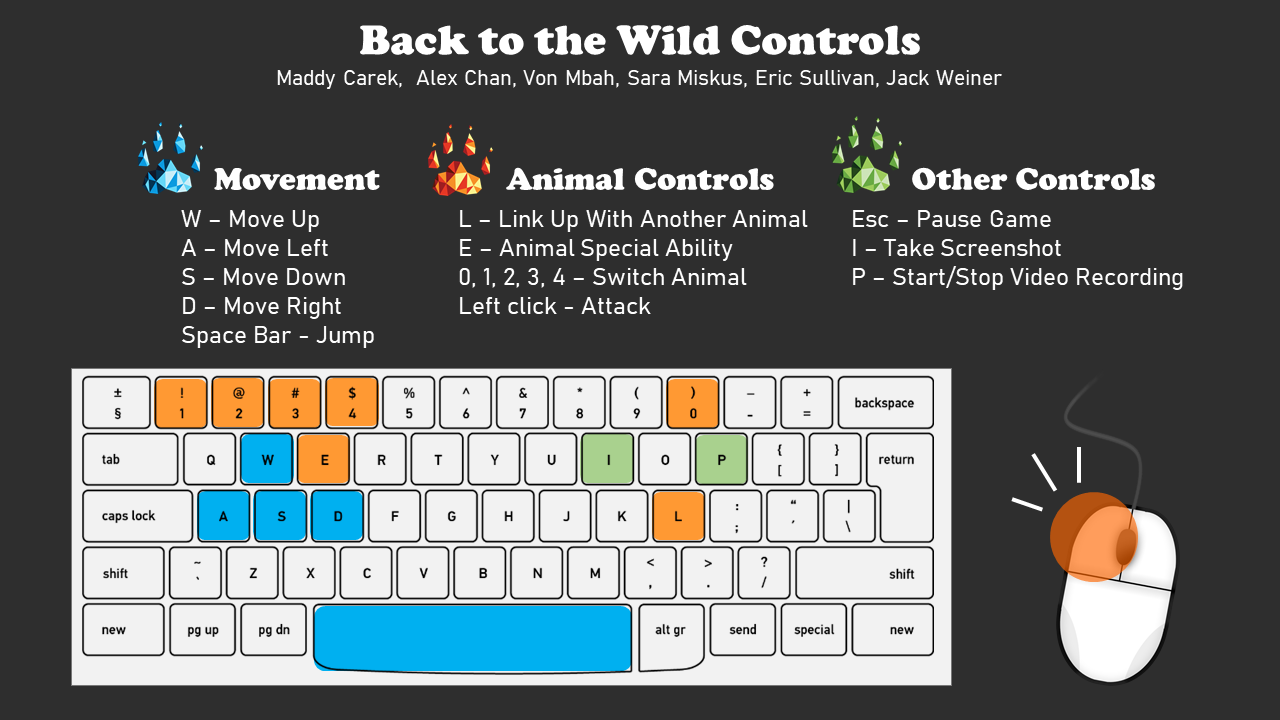
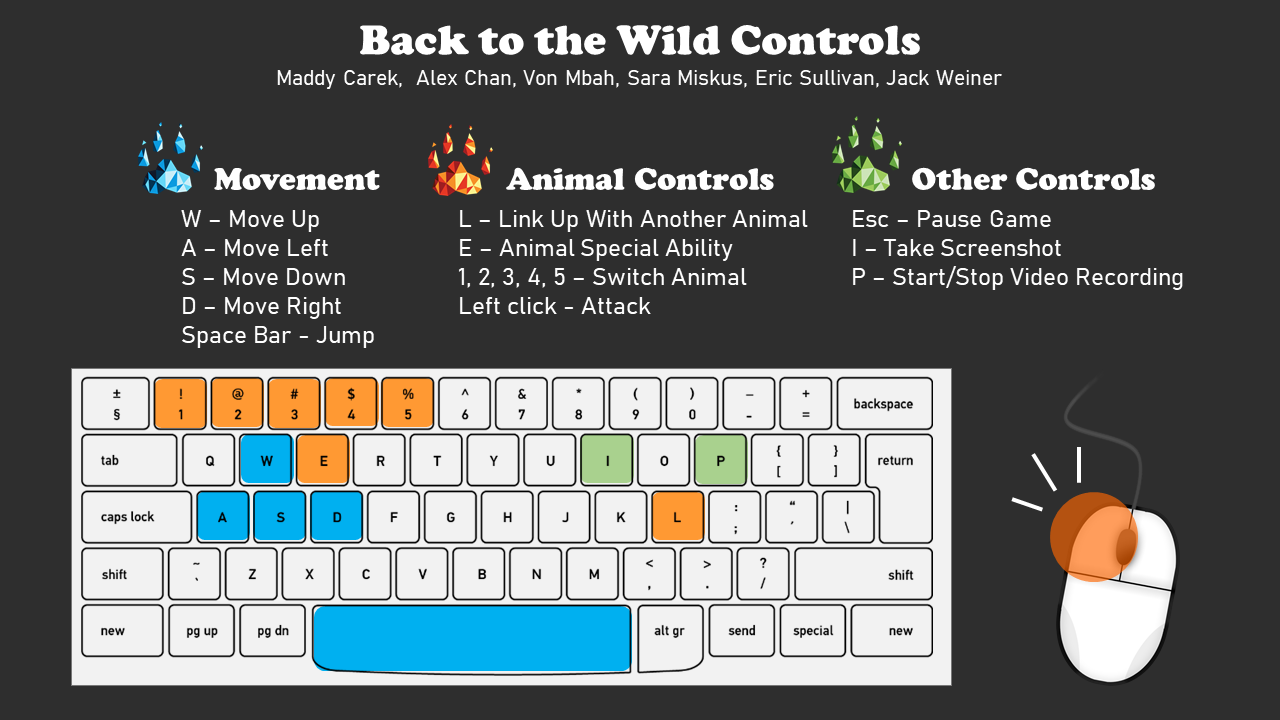
Updating controls

Changed region(s): [[0.0625, 0.5194, 0.75, 0.9472], [0.3438, 0.3667, 0.4375, 0.3972]]

diff --git a/index.html b/index.html
@@ -36,7 +36,7 @@
             <li>Spacebar: Jump</li>
             <li>E: The animal's special ability</li>
             <li>L: Link with another animal</li>
-            <li>0, 1, 2, 3, 4: Switch between different animals after you have linked up with them</li>
+            <li>1, 2, 3, 4, 5: Switch between different animals after you have linked up with them</li>
             <li>Left click: Attack</li>
             <li>Esc: Pause game</li>
             <li>I: Take an in game screenshot</li>
